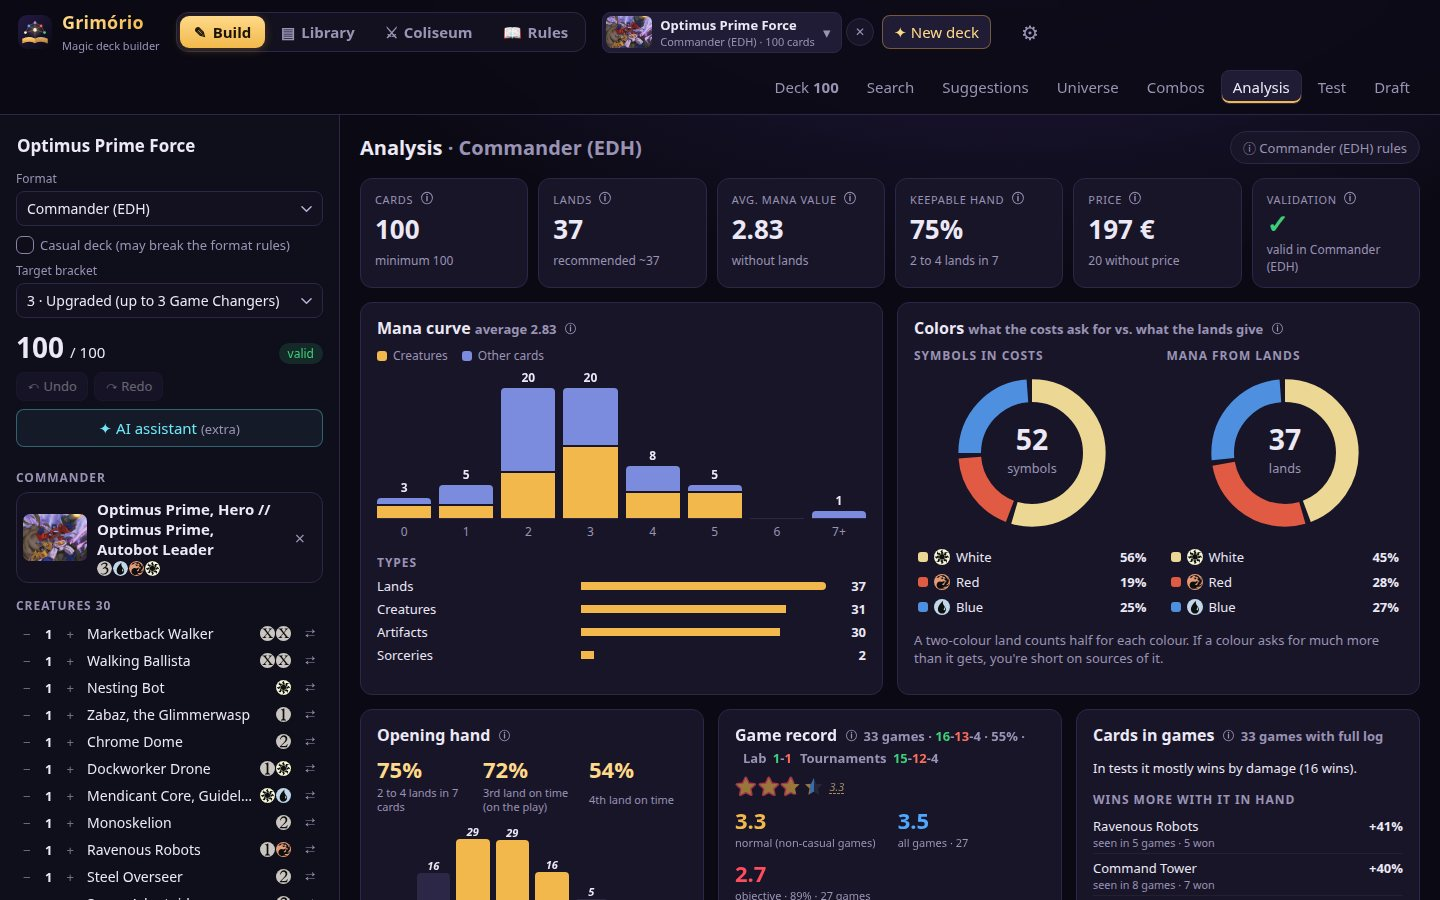
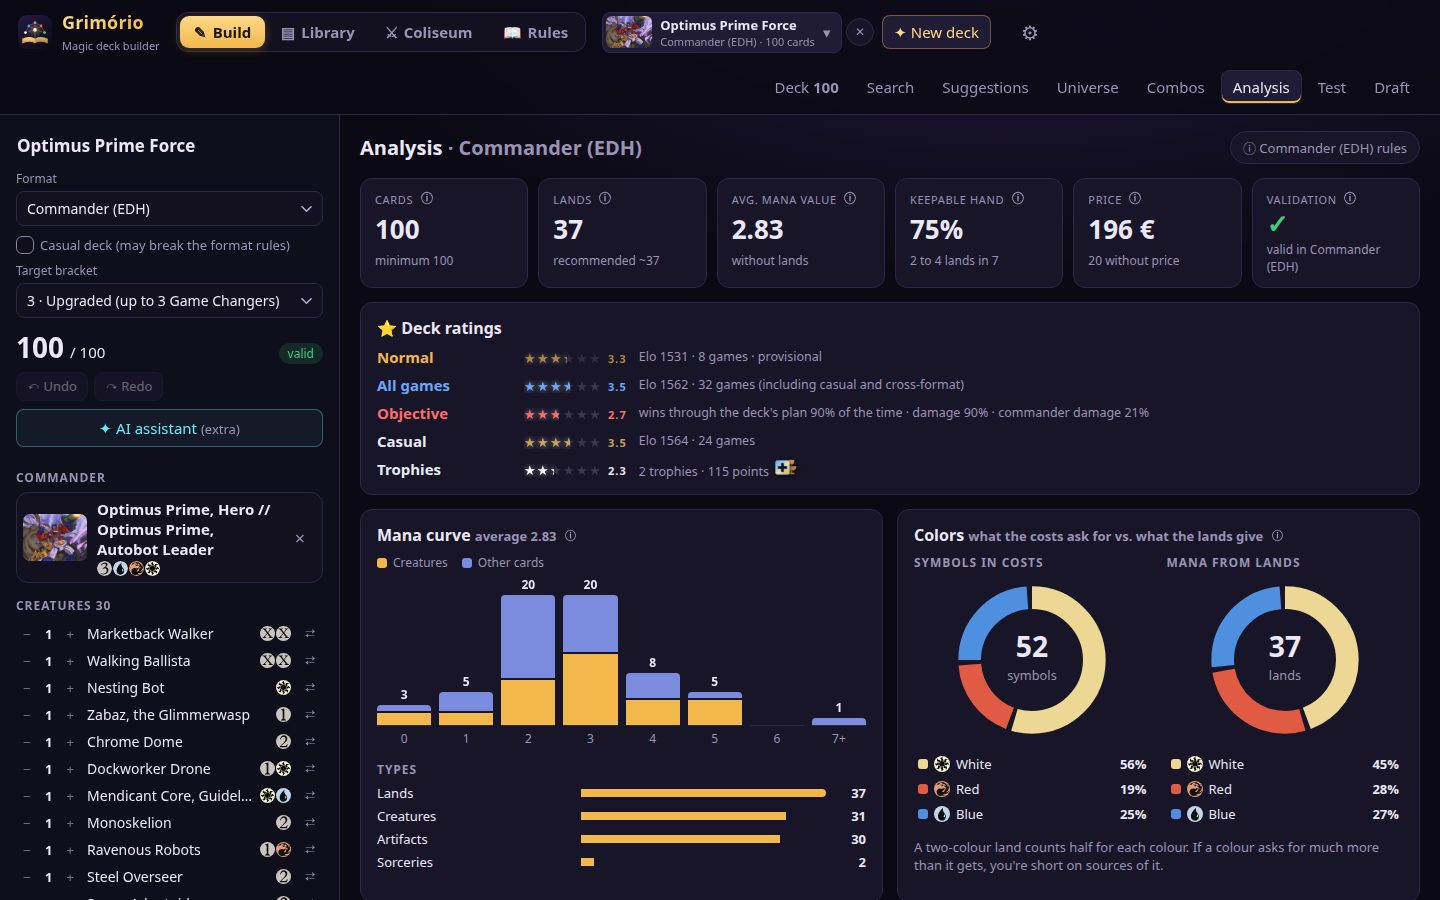
Arranque: o data.js só carrega depois do dicionário (a deteção da Scryfall deixava tipos e cores em português nas outras línguas); captura da Análise com os ratings

Changed region(s): [[0.25, 0.3422, 0.9688, 1.0], [0.5625, 0.56, 0.625, 0.5911]]

diff --git a/web/src/main.jsx b/web/src/main.jsx
@@ -3,7 +3,6 @@ import { createRoot } from 'react-dom/client'
 import './index.css'
 import { ready, tx, LANG } from './i18n.js'
 import { initWake } from './wakelock.js'
-import { probeScryfall } from './data.js'
 
 // Erros do servidor: chegam em pt ({"erro": ...}); os textos fixos traduzem-se aqui para todos os pedidos da app.
 // Os nomes «X (deck médio)» que o servidor gera também.
@@ -45,8 +44,9 @@ window.fetch = async (...a) => {
 }
 
 // a app só carrega depois do dicionário da língua: as tabelas fixas dos módulos já nascem traduzidas
-ready.catch(() => {}).then(() => Promise.all([import('./App.jsx'), import('./confirm.jsx')]))
-  .then(([m, c]) => initWake() || probeScryfall() || createRoot(document.getElementById('root')).render(createElement(StrictMode, null, createElement(m.default), createElement(c.ConfirmHost))))
+// (o data.js também só aqui: as tabelas dele — tipos, cores — traduzem-se ao carregar o módulo)
+ready.catch(() => {}).then(() => Promise.all([import('./App.jsx'), import('./confirm.jsx'), import('./data.js')]))
+  .then(([m, c, d]) => initWake() || d.probeScryfall() || createRoot(document.getElementById('root')).render(createElement(StrictMode, null, createElement(m.default), createElement(c.ConfirmHost))))
 
 // Sliders: a parte preenchida do trilho segue o valor (--p); o Firefox tem ::-moz-range-progress, o Chrome precisa disto
 const fill = el => { const lo = +el.min || 0, hi = +el.max || 100; el.style.setProperty('--p', `${((el.value - lo) / (hi - lo || 1)) * 100}%`) }
